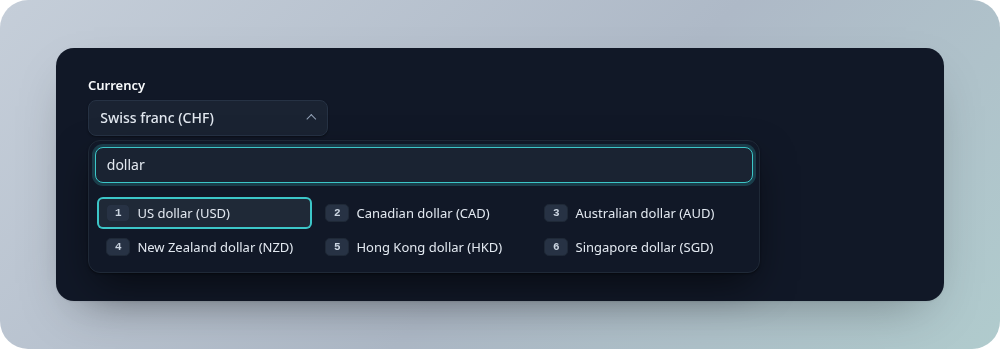
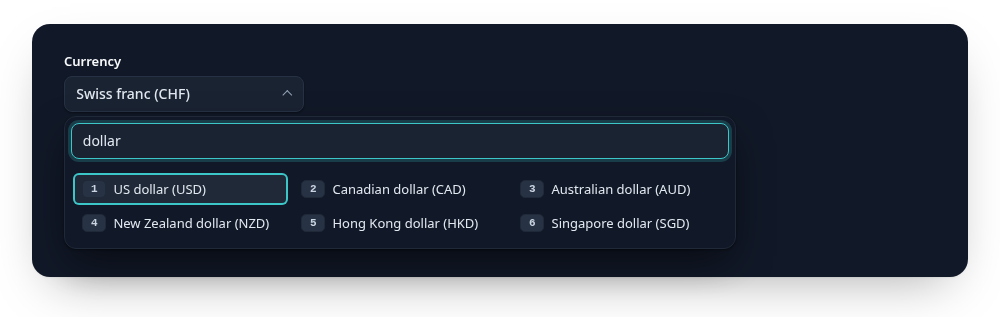
docs: screenshots with a transparent backdrop, versioned image URLs against GitHub's image cache

diff --git a/scripts/screenshots.js b/scripts/screenshots.js
@@ -1,14 +1,11 @@
 // Regenerates the README screenshots in assets/ from the demo page: npm run screenshots
-// Each shot moves one GridSelect onto a "stage" (gradient, padding, rounded corners) and
-// captures it with a transparent page background, so the corners stay round in the PNG.
+// Each shot moves one GridSelect onto a transparent "stage" with a rounded, shadowed card and
+// captures it with a transparent page background, so only the card is opaque in the PNG.
 import { test } from "@playwright/test";
 import { writeFileSync } from "node:fs";
 
-// Light, neutral backdrops in both modes, so the component (light or dark) stands out.
-const STAGE = {
-  light: "linear-gradient(135deg, #d9e0e8 0%, #c5ced9 55%, #c6dcdd 100%)",
-  dark: "linear-gradient(135deg, #c5ced9 0%, #aeb9c7 55%, #b0cbcd 100%)",
-};
+// Transparent around the card, so the image sits on GitHub's own light or dark background.
+const STAGE = { light: "transparent", dark: "transparent" };
 
 /**
  * Puts the wrapper `id` on a stage at the top of the page, runs `act`, then returns a PNG.
@@ -24,7 +21,7 @@ async function shoot(page, scheme, id, act = async () => {}) {
     stage.id = "shot-stage";
     Object.assign(stage.style, {
       position: "absolute", top: "40px", left: "40px", width: "1000px", boxSizing: "border-box",
-      padding: "48px 56px", borderRadius: "28px", background, fontSize: "16px", zIndex: "1000",
+      padding: "24px 32px 40px", background, fontSize: "16px", zIndex: "1000",
     });
     const card = document.createElement("div");
     Object.assign(card.style, {

diff --git a/README.md b/README.md
@@ -19,18 +19,18 @@ everything still works without JavaScript.
 **[Try the demo](https://emmgeede.github.io/gridselect/)**
 
 <picture>
-  <source media="(prefers-color-scheme: dark)" srcset="https://raw.githubusercontent.com/emmgeede/gridselect/main/assets/filter-dark.png">
-  <img src="https://raw.githubusercontent.com/emmgeede/gridselect/main/assets/filter-light.png" width="100%" alt="A currency field with its panel open. The search input contains 'dollar' and six matching currencies are shown as numbered items in a four-column grid, the first one outlined as the cursor.">
+  <source media="(prefers-color-scheme: dark)" srcset="https://raw.githubusercontent.com/emmgeede/gridselect/main/assets/filter-dark.png?v=3">
+  <img src="https://raw.githubusercontent.com/emmgeede/gridselect/main/assets/filter-light.png?v=3" width="100%" alt="A currency field with its panel open. The search input contains 'dollar' and six matching currencies are shown as numbered items in a four-column grid, the first one outlined as the cursor.">
 </picture>
 
 <picture>
-  <source media="(prefers-color-scheme: dark)" srcset="https://raw.githubusercontent.com/emmgeede/gridselect/main/assets/short-dark.png">
-  <img src="https://raw.githubusercontent.com/emmgeede/gridselect/main/assets/short-light.png" width="100%" alt="A short list of four shipping options shown as rounded items with digit badges 1 to 4, the first one selected.">
+  <source media="(prefers-color-scheme: dark)" srcset="https://raw.githubusercontent.com/emmgeede/gridselect/main/assets/short-dark.png?v=3">
+  <img src="https://raw.githubusercontent.com/emmgeede/gridselect/main/assets/short-light.png?v=3" width="100%" alt="A short list of four shipping options shown as rounded items with digit badges 1 to 4, the first one selected.">
 </picture>
 
 <picture>
-  <source media="(prefers-color-scheme: dark)" srcset="https://raw.githubusercontent.com/emmgeede/gridselect/main/assets/highlight-dark.png">
-  <img src="https://raw.githubusercontent.com/emmgeede/gridselect/main/assets/highlight-light.png" width="100%" alt="Highlight mode: all currencies stay in place, the two krone entries are shown in bold teal, the others dimmed, digit badges switch to S1, S2 for the second tier.">
+  <source media="(prefers-color-scheme: dark)" srcset="https://raw.githubusercontent.com/emmgeede/gridselect/main/assets/highlight-dark.png?v=3">
+  <img src="https://raw.githubusercontent.com/emmgeede/gridselect/main/assets/highlight-light.png?v=3" width="100%" alt="Highlight mode: all currencies stay in place, the two krone entries are shown in bold teal, the others dimmed, digit badges switch to S1, S2 for the second tier.">
 </picture>
 
 **Status:** version 0.8.0, early development. Published on npm as

diff --git a/CHANGELOG.md b/CHANGELOG.md
@@ -15,7 +15,8 @@ and breaking changes need a new major version.
 ### Changed
 
 - README: installation right after the introduction, screenshots at full
-  width with three columns in the panel and a slightly darker backdrop.
+  width with three columns in the panel and a transparent backdrop around
+  the card, so they sit on GitHub's own light or dark background.
 
 ## [0.8.0] - 2026-11-01
 
